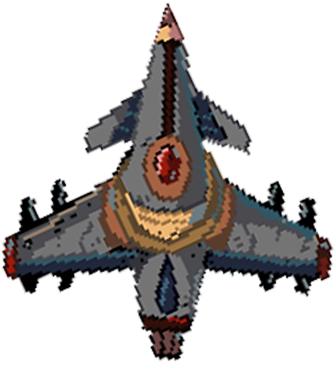
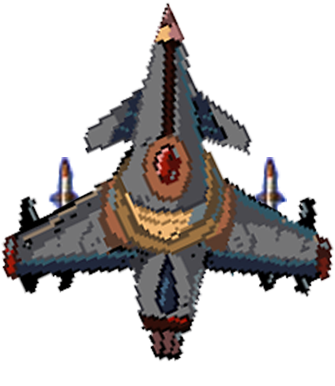
feat: ракеты с офигенной анимацией

Changed region(s): [[0.7463, 0.4041, 0.8657, 0.5596], [0.1493, 0.4041, 0.2388, 0.5596]]

diff --git a/ULTRAMEGA/src/EnemyEntity.cpp b/ULTRAMEGA/src/EnemyEntity.cpp
@@ -12,7 +12,7 @@ EnemyEntity::EnemyEntity(Vector2& pos, EnemyType type) :
 		hpCapacity = 100;
 		hpVal = hpCapacity;
 		mBulletDamage = 10;
-		mSpeed = 0.03;
+		mSpeed = 0.00;
 		spriteDim.x = 190 / shrinkFactor;
 		spriteDim.y = 220 / shrinkFactor;
 		mHitboxDim.x = (spriteDim.x)/shrinkFactor;
@@ -44,13 +44,13 @@ void EnemyEntity::Action()
 
 void EnemyEntity::MovingAlgorithm()
 {
-	Uint32 time = SDL_GetTicks(); // time in seconds
-	if (time - gunLastShotTime > 1000)
-	{
-		gunRDY = true;
-	}
-	double amplitude = WINDOW_HEIGHT / 3.2;
-	double period = 10000;
-	mPos.x = WINDOW_WIDTH / 2.0 + amplitude* cos(2 * M_PI * (time - mSpawnTime) / period + initPhase);
-	mPos.y = -50 -200*(2*initPhase/(2*M_PI)) + mSpeed * (time - mSpawnTime);
+	//Uint32 time = SDL_GetTicks(); // time in seconds
+	//if (time - gunLastShotTime > 1000)
+	//{
+	//	gunRDY = true;
+	//}
+	//double amplitude = WINDOW_HEIGHT / 3.2;
+	//double period = 10000;
+	//mPos.x = WINDOW_WIDTH / 2.0 + amplitude* cos(2 * M_PI * (time - mSpawnTime) / period + initPhase);
+	//mPos.y = -50 -200*(2*initPhase/(2*M_PI)) + mSpeed * (time - mSpawnTime);
 }

diff --git a/ULTRAMEGA/include/Entity.h b/ULTRAMEGA/include/Entity.h
@@ -21,7 +21,7 @@ struct Vector2
 	Vector2(const Vector2& other) : x(other.x), y(other.y) {};
 	~Vector2() {};
 
-	Vector2 operator+(Vector2 other)
+	Vector2 operator+(Vector2& other)
 	{
 		return Vector2(this->x + other.x, this->y + other.y);
 	}
@@ -87,8 +87,10 @@ public:
 	std::string GetTextureName() const { return textureName; };
 	
 	// for animation
-	virtual int GetCurrentFrame() = 0;
-	virtual int GetCurrentAnimationLine() = 0;
+	virtual int GetCurrentFrame() { return currentFrame; };
+	virtual int GetCurrentAnimationLine() { return animationLine; };
+	void SetUsingAnimation(const bool state) { isUsingAnimation = state; };
+	bool GetUsingAnimation() const { return isUsingAnimation; };
 
 	bool IsCollided() const { return mIsCollided; };
 
@@ -120,6 +122,7 @@ protected:
 	int animationLine = 0; // current line in sprite sheet
 	int totalLines = 0; // total number of lines in sprite sheet
 	Uint32 timeOfLastFrame = 0;
+	bool isUsingAnimation = false;
 
 	int hpVal = 50;
 	int hpCapacity = 50;

diff --git a/ULTRAMEGA/include/Projectile.h b/ULTRAMEGA/include/Projectile.h
@@ -14,16 +14,26 @@ public:
 	void SetDamageValue(double value) { mDamage = value; };
 	
 	Uint32 GetTimeOfCollision() const { return timeOfCollision; };
-	
+	int GetCurrentFrame() override;
+	int GetCurrentAnimationLine() override;
 	
 protected:
 	void MovingAlgorithm() override;
 	double mDamage = 10;
 	bool isPlayerHosted = false;
 	Uint32 timeOfCollision = 0;
+	Vector2 spawnPosition;
 
-	int GetCurrentFrame() override;
-	int GetCurrentAnimationLine() override;
 
+	
 private:
+};
+
+class Rocket : public Projectile {
+public:
+	Rocket(Vector2& spawnPos, double speed, bool plHosted);
+	void Action() override;
+protected:
+	void MovingAlgorithm() override;
+	double acceleration = 0.001;
 };

diff --git a/ULTRAMEGA/src/ShootingEntity.cpp b/ULTRAMEGA/src/ShootingEntity.cpp
@@ -8,13 +8,14 @@ ShootingEntity::ShootingEntity(Vector2 coords, EntityType type, double speed) :
 
 void ShootingEntity::CheckCoolDown(Uint32 currTime)
 {
-	if ((currTime - gunLastShotTime) > gunCoolDown)
+	if (!gunRDY && (currTime - gunLastShotTime) > gunCoolDown)
 	{
 		gunRDY = true;
 	}
-	if ((currTime - rocketLastShotTime) > rocketCoolDown)
+	if (!rocketRDY && (currTime - rocketLastShotTime) > rocketCoolDown)
 	{
 		rocketRDY = true;
+		isLeft = !isLeft;
 	}
 	if ((currTime - laserLastShotTime) > laserCoolDown)
 	{

diff --git a/ULTRAMEGA/include/Game.h b/ULTRAMEGA/include/Game.h
@@ -55,7 +55,9 @@ private:
 
 	bool CheckBoundaryExit(Vector2& pos, double hitbox);
 
-	std::shared_ptr<Projectile> SpawnProjectile(std::shared_ptr<Entity> host);
+	std::shared_ptr<Projectile> SpawnProjectile(std::shared_ptr<ShootingEntity> host, EntityType prjType);
 	std::shared_ptr<Entity> SpawnBackgroundObject(Vector2& position, double speed);
 	std::shared_ptr<EnemyEntity> SpawnEnemy(Vector2& position, EnemyType type);
+
+	Uint32 mTimeOfLastUserInput = 0;
 };

diff --git a/ULTRAMEGA/src/Player.cpp b/ULTRAMEGA/src/Player.cpp
@@ -4,7 +4,7 @@
 Player::Player(Vector2 coords, double speed) :
 	ShootingEntity(coords, EntityType::PLAYER, speed)
 {
-	mHitboxSize = 64;
+	mHitboxSize = 90;
 	spriteSize = mHitboxSize;
 	onCollision =
 		[this](double dmg)
@@ -29,4 +29,14 @@ void Player::Action()
 {
 
 	return;
+}
+
+int Player::GetCurrentFrame()
+{
+	return 0;
+}
+
+int Player::GetCurrentAnimationLine()
+{
+	return 0;
 }

diff --git a/ULTRAMEGA/include/Player.h b/ULTRAMEGA/include/Player.h
@@ -11,7 +11,8 @@ public:
 	~Player() {};
 	void Shoot() override;
 	void Action() override;
-	
+	virtual int GetCurrentFrame() override;
+	virtual int GetCurrentAnimationLine() override;
 	void AddScore(const int sc) { score += sc; };
 
 private:

diff --git a/ULTRAMEGA/include/Constants.h b/ULTRAMEGA/include/Constants.h
@@ -10,6 +10,7 @@ const int WINDOW_WIDTH = 800;
 const int WINDOW_HEIGHT = 800;
 
 const int SLUG_EXPOLION_LIFETIME = 1850;
+const int ROCKET_ANIMATION_INCREMENT = 30;
 
 const int ENEMY_WAVE_COOLDOWN = 1500; // time between enemy waves
 
